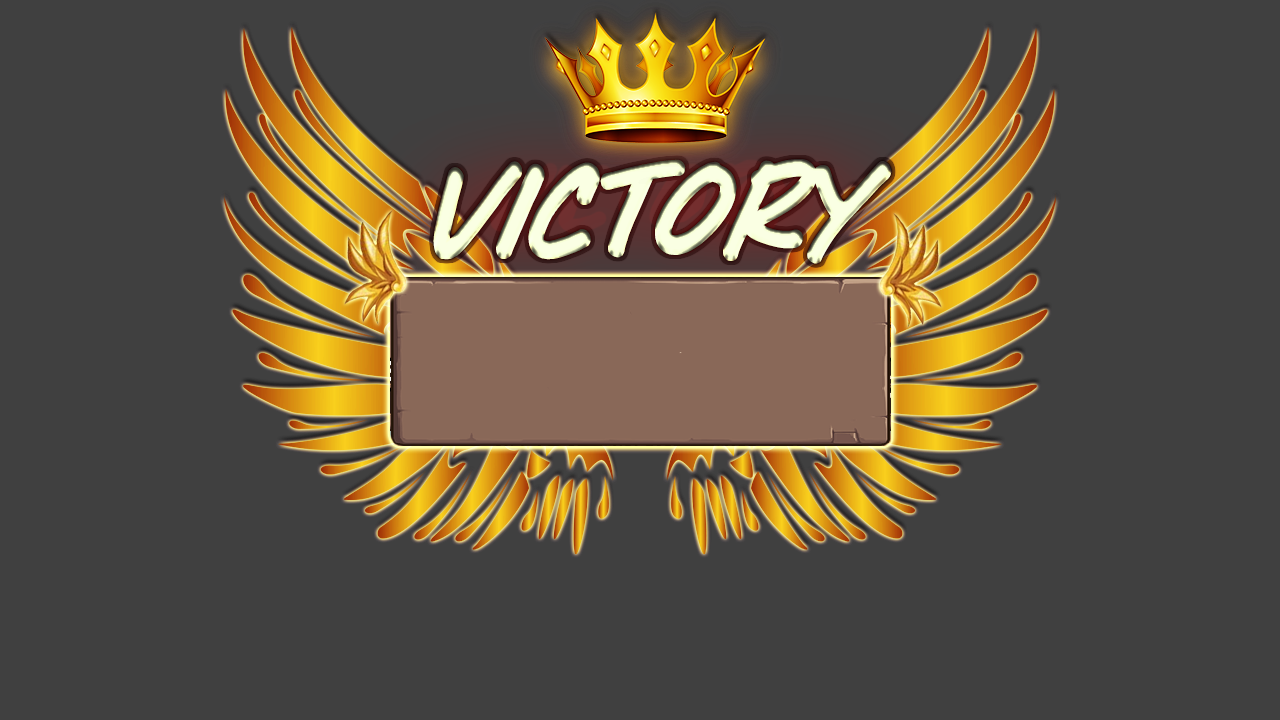
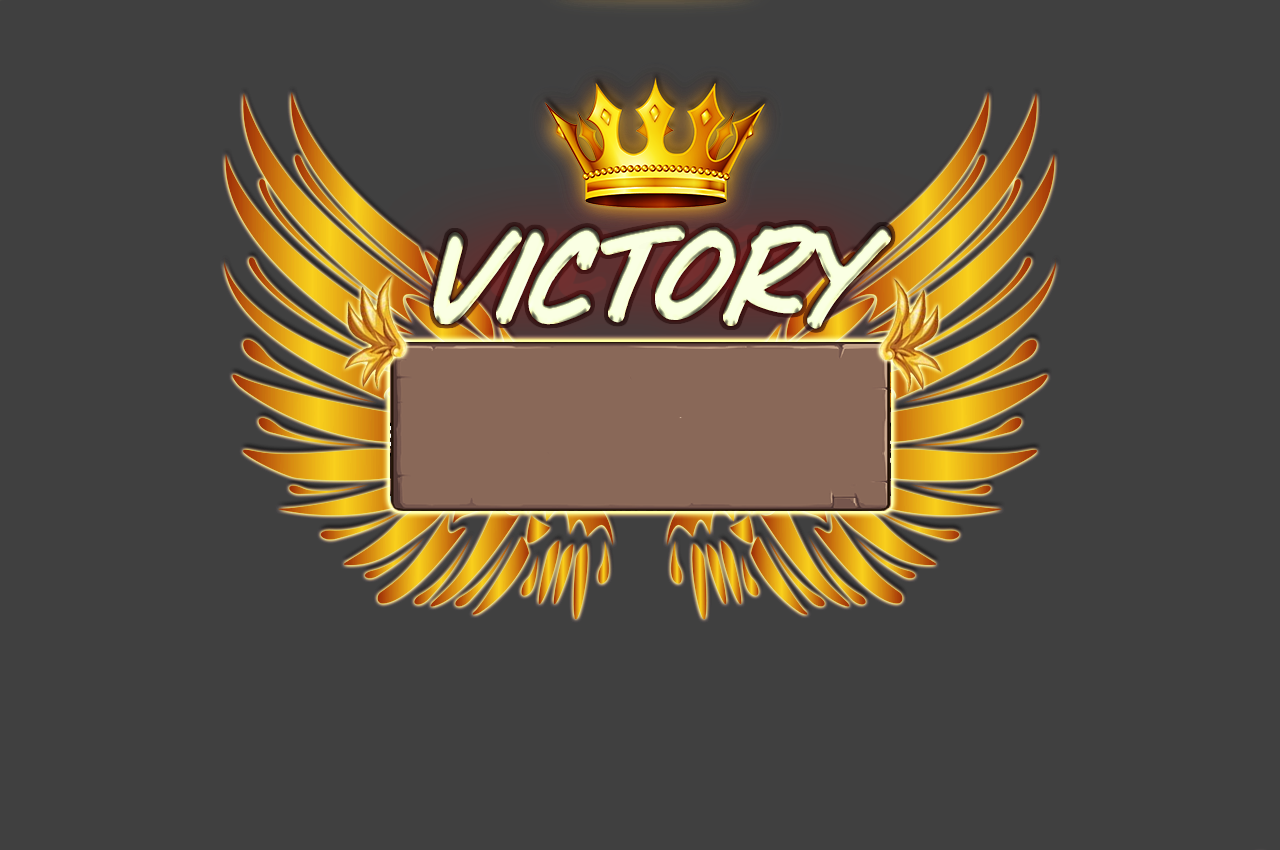
fixed button and texture stuff

Changed region(s): [[0.1562, 0.0, 0.8438, 0.7639]]

diff --git a/libgdx/core/src/screens/screens/ResultsScreen.java b/libgdx/core/src/screens/screens/ResultsScreen.java
@@ -60,13 +60,14 @@ public class ResultsScreen implements Screen {
 	private Label winnerLabel;
 	private Label[] p1CurrentScore, p1FinalScore, p1ScoreLoss, finalScore;
 	private Label[][] p1LettersLeft;
-	private ButtonStyle returnButtonStyle;
+	private ButtonStyle returnButtonStyle, menuButtonStyle;;
 	private Button returnButton, placeHolderButton;
 	
 	private Sound scoreIncrement, finalScoreSound, winfanfare;
 	
 	private boolean hasWon, isFinal = false;
 	private TextureAtlas buttonAtlass;
+	
 
 	
 
@@ -86,7 +87,7 @@ public class ResultsScreen implements Screen {
 		skin = new Skin();
 		altSkin = new Skin();
 		buttonAtlass = new TextureAtlas();
-		buttonAtlass.addRegion("victory", game.getAssetManager().manager.get(assetManager.victory), 0, 0, 1280, 720);
+		buttonAtlass.addRegion("victory", game.getAssetManager().manager.get(assetManager.victory), 0, 0, 1280, 850);
 		buttonAtlas = game.getAssetManager().manager.get(assetManager.mainMenuButtonPack);
 		skin.addRegions(buttonAtlas);
 		skin.addRegions(buttonAtlass);
@@ -215,9 +216,10 @@ public class ResultsScreen implements Screen {
 			@Override
 			public void clicked(InputEvent event, float x, float y) {
 				 disposey();
+				 
 			}
 		});
-		placeHolderButton = new Button(returnButtonStyle);
+		placeHolderButton = new Button(menuButtonStyle);
 		placeHolderButton.setVisible(false);
 		tableThing = new Table();
 		tableThing.setSize(1280.0f, 850.0f);
@@ -228,7 +230,14 @@ public class ResultsScreen implements Screen {
 		tableThing.add(returnButton).align(Align.center);
 		tableThing.setPosition((1280.0f - tableThing.getWidth()) * 0.5f, (720.0f - (tableThing.getHeight())) * 0.5f);
 		tableThing.setVisible(false);
-		placeHolderButton.setPosition(600, 300);
+		placeHolderButton.setPosition(540, 200);
+		placeHolderButton.addListener(new ClickListener() {
+			@Override
+			public void clicked(InputEvent event, float x, float y) {
+				 disposey();
+				 
+			}
+		});
 		stage.addActor(tableThing);
 		stage.addActor(placeHolderButton);
 		// --WINNER POPUP
@@ -540,6 +549,10 @@ public class ResultsScreen implements Screen {
 		returnButtonStyle = new ButtonStyle();
 		returnButtonStyle.up = altSkin.getDrawable("homeButton");
 		returnButtonStyle.over = altSkin.getDrawable("homeButtonPressed");
+		
+		menuButtonStyle = new ButtonStyle();
+		menuButtonStyle.up = altSkin.getDrawable("mainMenuButton");
+		menuButtonStyle.over = altSkin.getDrawable("mainMenuButtonPressed");
 
 	}
 
